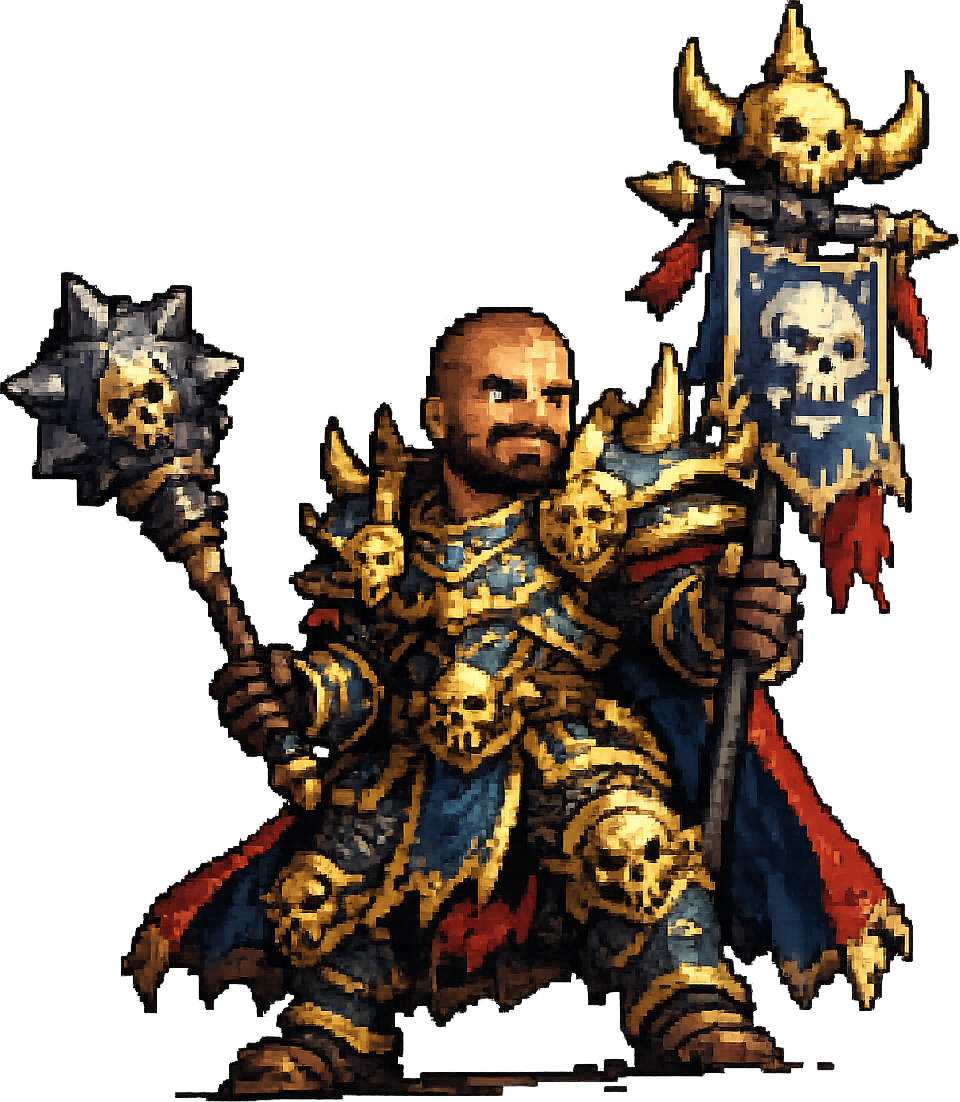
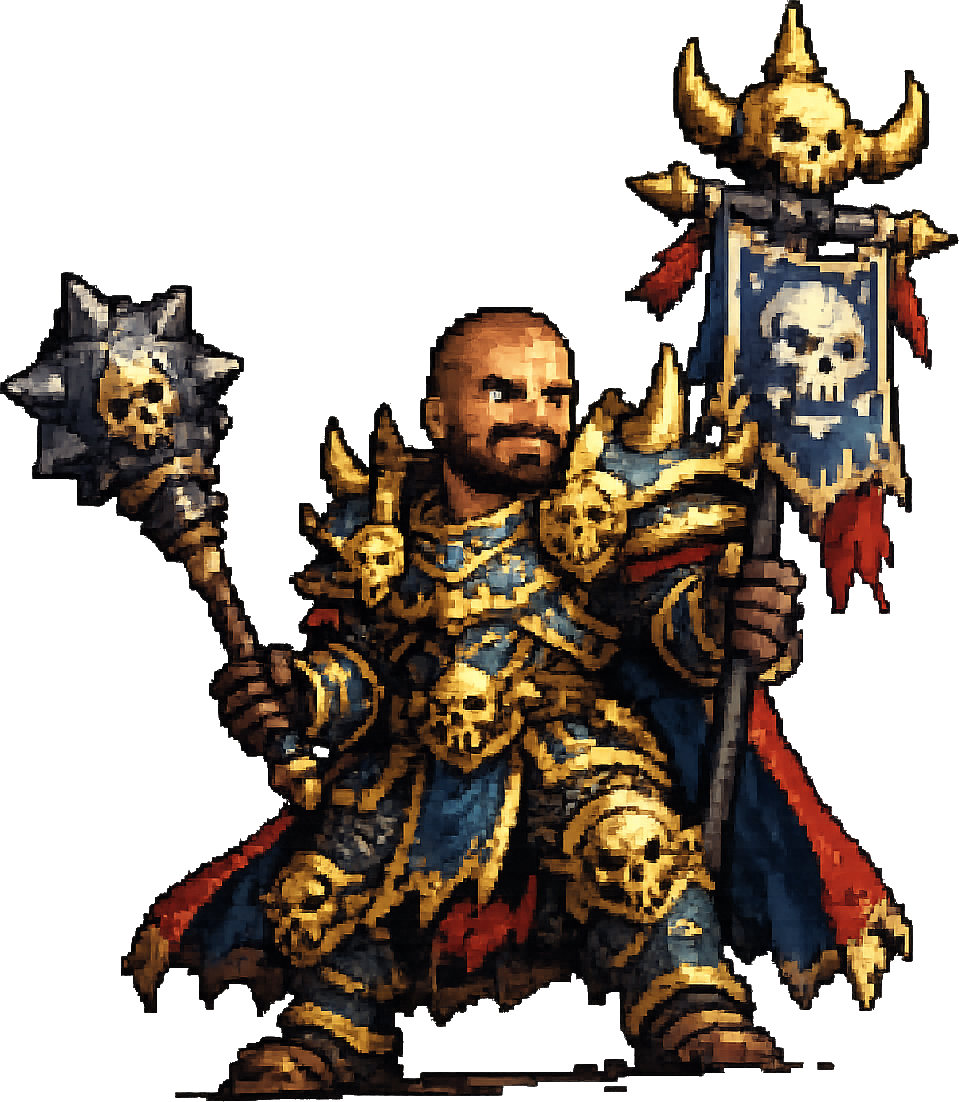
fix(raid): prep-fighter handles pre-keyed sources; regenerate paladin via script

diff --git a/scripts/prep-fighter.py b/scripts/prep-fighter.py
@@ -3,10 +3,16 @@
 
 Usage: python3 scripts/prep-fighter.py <source.png> <slug> [tolerance]
 
-Flood-fills from the canvas border: gradients vary slowly between neighbours,
-so the fill walks the whole background and stops at the character's hard
-edge. Result is cropped to the opaque bounding box (feet at the bottom) and
-saved to public/fighters/<slug>.png.
+Two paths depending on the source:
+- Pre-keyed source (>5% pixels already alpha=0): skips flood-fill; instead
+  cleans semi-transparent fringe by dropping any pixel with alpha<100 to
+  fully transparent (engine alphaTest ~0.4 ≈ 102 — fringe would render as
+  a dark halo otherwise), then crops to content bbox.
+- Opaque source: flood-fills from the canvas border (gradients vary slowly
+  between neighbours, so the fill walks the whole background and stops at
+  the character's hard edge), then crops to content bbox.
+
+Result saved to public/fighters/<slug>.png.
 """
 import sys
 from collections import deque
@@ -42,16 +48,45 @@ def key_flood(im, tol):
     return cleared / (w * h)
 
 
+def clean_alpha(im):
+    """Drop semi-transparent fringe: any pixel with alpha<100 becomes fully transparent."""
+    w, h = im.size
+    px = im.load()
+    cleaned = 0
+    for y in range(h):
+        for x in range(w):
+            r, g, b, a = px[x, y]
+            if a < 100:
+                px[x, y] = (0, 0, 0, 0)
+                cleaned += 1
+    return cleaned / (w * h)
+
+
 def main():
     src, slug = sys.argv[1], sys.argv[2]
     tol = int(sys.argv[3]) if len(sys.argv) > 3 else 26
     im = Image.open(src).convert('RGBA')
-    ratio = key_flood(im, tol)
-    bbox = im.getbbox()
-    im = im.crop(bbox)
-    out = f'public/fighters/{slug}.png'
-    im.save(out, optimize=True)
-    print(f'{out}: keyed {ratio:.0%} of canvas, cropped to {im.size[0]}x{im.size[1]} (bbox {bbox})')
+
+    w, h = im.size
+    total = w * h
+    px = im.load()
+    already_transparent = sum(1 for y in range(h) for x in range(w) if px[x, y][3] == 0)
+    pre_keyed = (already_transparent / total) > 0.05
+
+    if pre_keyed:
+        ratio = clean_alpha(im)
+        bbox = im.getbbox()
+        im = im.crop(bbox)
+        out = f'public/fighters/{slug}.png'
+        im.save(out, optimize=True)
+        print(f'{out}: pre-keyed source, alpha-cleaned (fringe<100 dropped), cropped to {im.size[0]}x{im.size[1]} (bbox {bbox})')
+    else:
+        ratio = key_flood(im, tol)
+        bbox = im.getbbox()
+        im = im.crop(bbox)
+        out = f'public/fighters/{slug}.png'
+        im.save(out, optimize=True)
+        print(f'{out}: keyed {ratio:.0%} of canvas, cropped to {im.size[0]}x{im.size[1]} (bbox {bbox})')
 
 
 if __name__ == '__main__':
